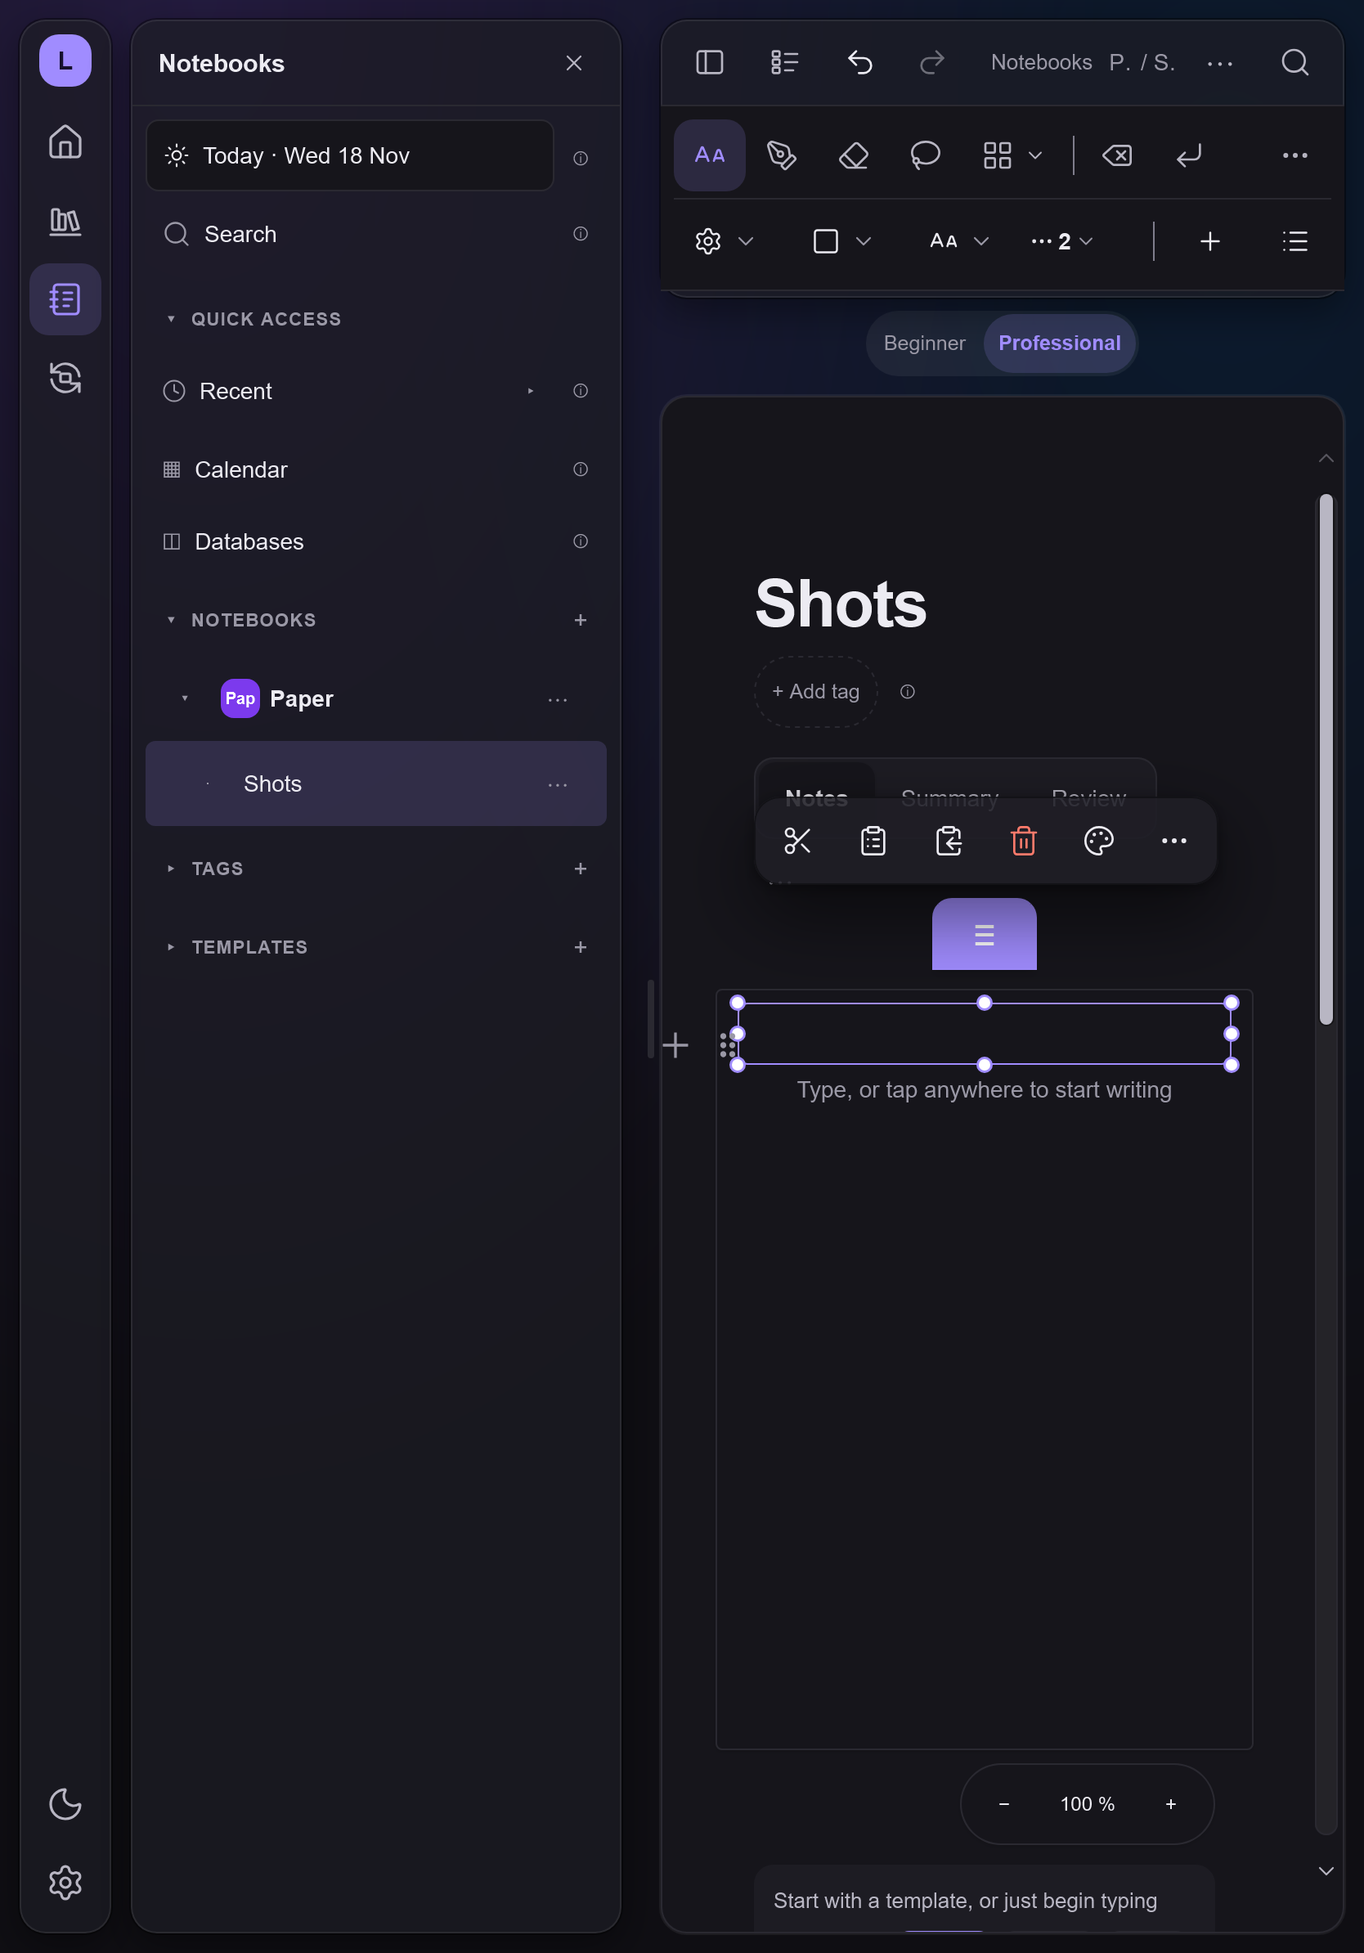
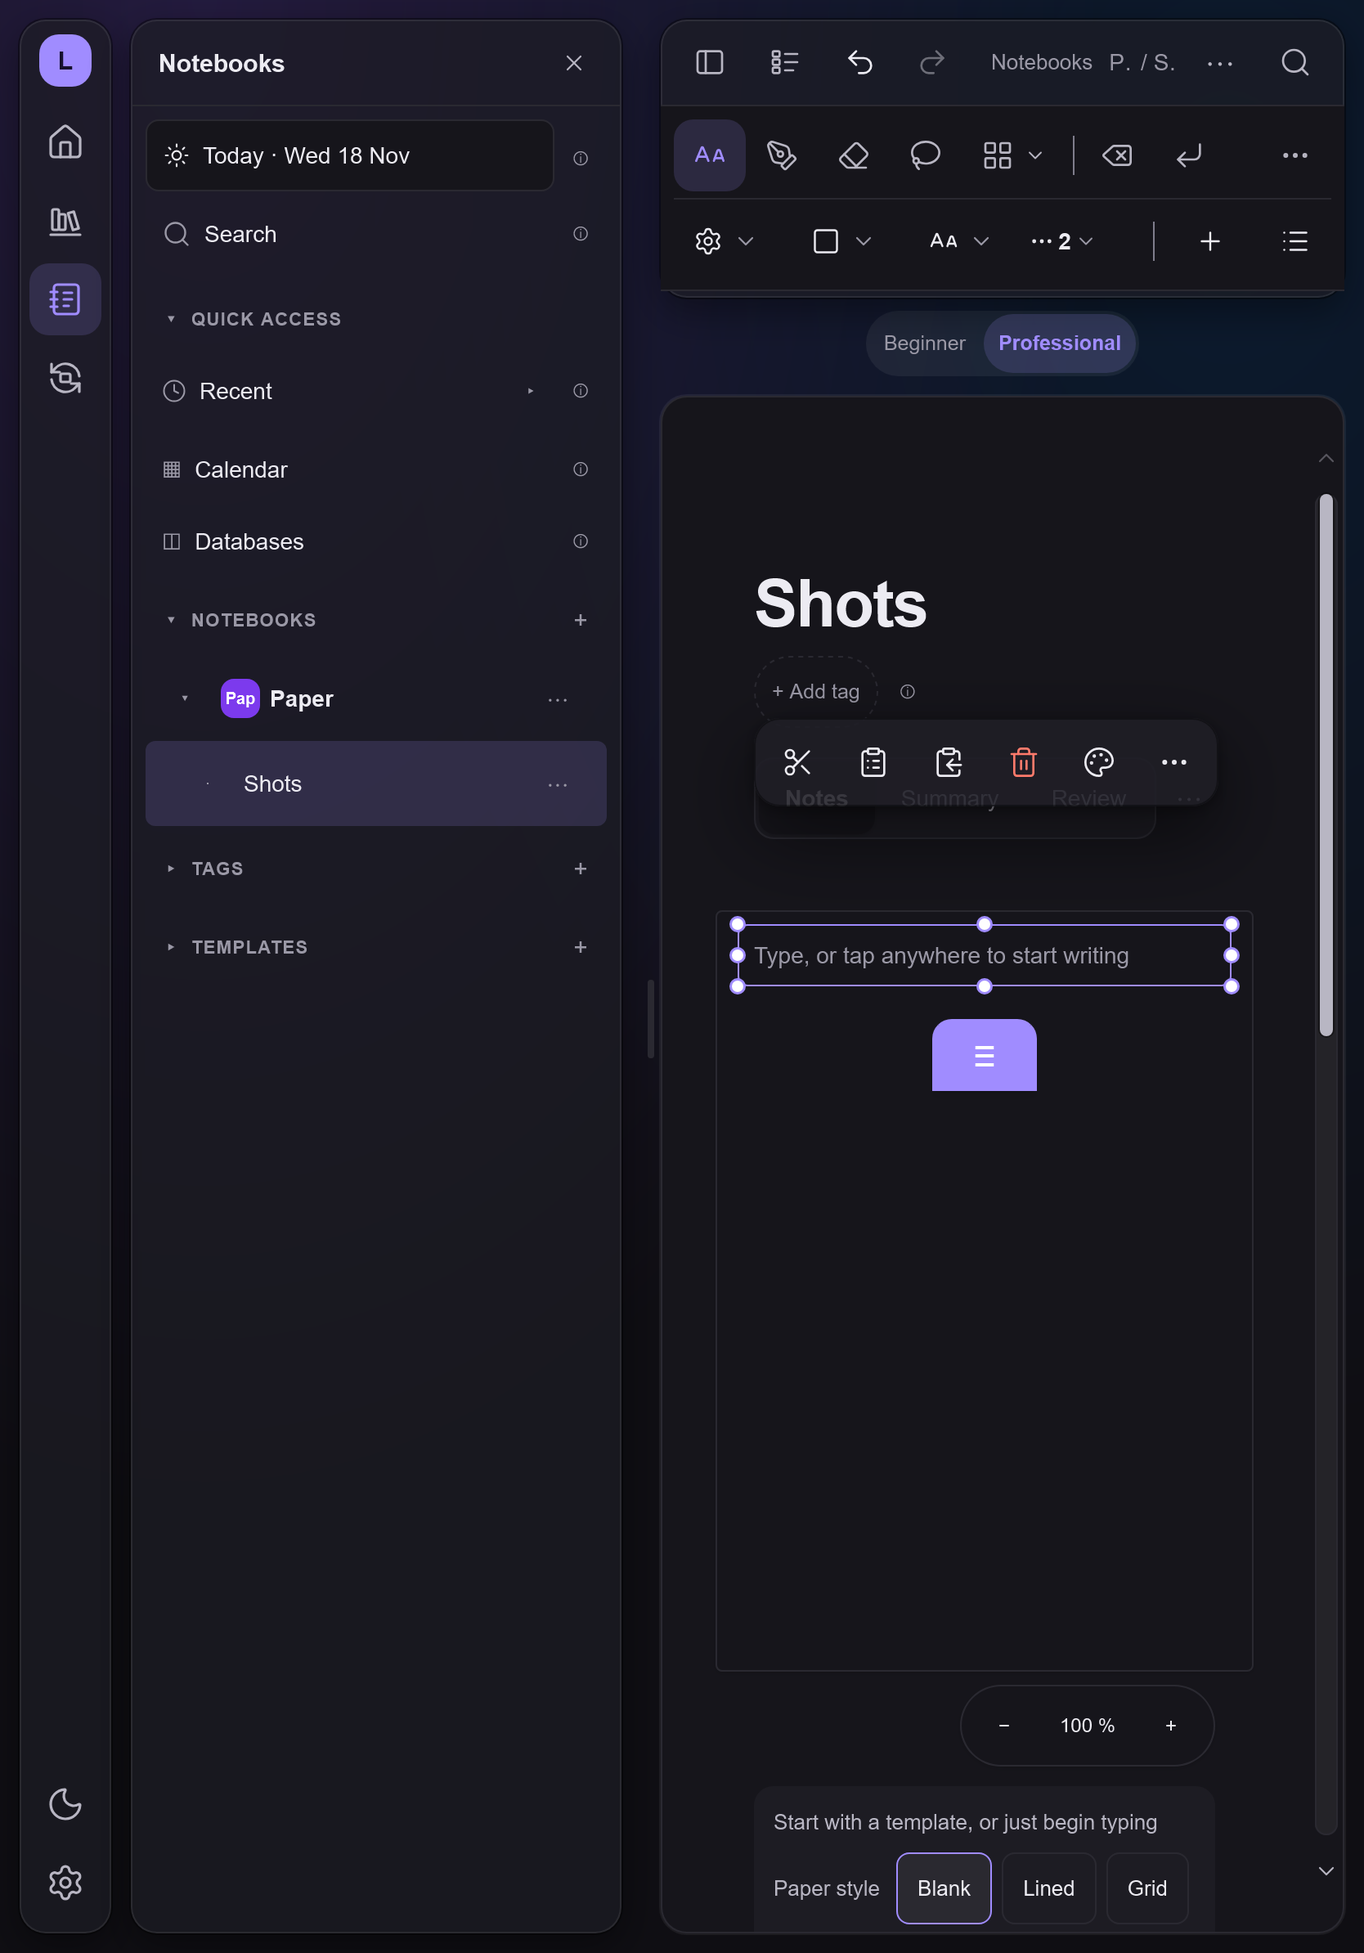
C33, C34 review: hint inside the first box and counted as text, tabs menu beside tabs, block handle hidden on a selected box, empty box vanishes at once, Text-tool-only tests

diff --git a/e2e/c33c34.spec.ts b/e2e/c33c34.spec.ts
@@ -96,7 +96,7 @@ test('owner 18 Nov: an empty page shows its hint and no frame until the first bo
   await expect(page.locator('[data-paper-hint]')).toBeVisible()
   await expect(page.locator('[data-main-frame]')).toHaveCount(0)
   const r = await rect(page.locator(MAIN))
-  await page.mouse.click(r.x + r.width / 2, r.y + 8)
+  await page.mouse.click(r.x + r.width - 80, r.y + 8)
   await page.waitForTimeout(500)
   await expect(page.locator('[data-main-frame]')).toBeVisible()
 })
@@ -107,7 +107,7 @@ test('owner 18 Nov: typed letters do nothing while the first box is selected; Es
   await start(page, 'KeysMain', false, PRESET_2B)
   const main = page.locator(MAIN)
   const r = await rect(main)
-  await page.mouse.click(r.x + r.width / 2, r.y + 8)
+  await page.mouse.click(r.x + r.width - 80, r.y + 8)
   await expect(chrome(page).locator('[data-box-grip]')).toBeVisible()
   await page.keyboard.type('hello')
   await page.waitForTimeout(400)
@@ -135,3 +135,164 @@ test('owner 18 Nov: typed letters do nothing while another box is selected; Dele
   await page.keyboard.press('Delete')
   await expect(page.locator(EXTRA)).toHaveCount(0)
 })
+
+/* ---- Review round (owner 18 Nov) ---- */
+
+test('review: the empty page hint sits inside the first box, on its line', async ({
+  page,
+}) => {
+  await start(page, 'HintIn', false, PRESET_2B)
+  await page.waitForTimeout(700)
+  const b = await rect(page.locator(MAIN))
+  const h = await rect(page.locator('[data-paper-hint]'))
+  expect(h.y).toBeGreaterThanOrEqual(b.y - 1)
+  expect(h.y + h.height).toBeLessThanOrEqual(b.y + b.height + 1)
+  expect(h.x).toBeGreaterThanOrEqual(b.x - 1)
+  expect(h.x).toBeLessThan(b.x + 20)
+  // Still no frame on an empty page.
+  await expect(page.locator('[data-main-frame]')).toHaveCount(0)
+})
+
+test('owner 18 Nov, hint tap: a tap on or near the hint gives the caret; a tap clearly away selects the box', async ({
+  page,
+}) => {
+  await start(page, 'HintTap', false, PRESET_2B)
+  await page.waitForTimeout(700)
+  const main = page.locator(MAIN)
+  const b = await rect(main)
+  const h = await rect(page.locator('[data-paper-hint]'))
+  const typing = () => main.evaluate((m) => m.contains(document.activeElement))
+  await page.mouse.click(h.x + h.width / 2, h.y + h.height / 2)
+  await page.waitForTimeout(400)
+  expect(await typing()).toBe(true)
+  await page.evaluate(() => (document.activeElement as HTMLElement).blur())
+  await page.keyboard.press('Escape')
+  await page.waitForTimeout(500)
+  // Just past the hint's end (about 1.5 letters): still near.
+  await page.mouse.click(h.x + h.width + 12, h.y + h.height / 2)
+  await page.waitForTimeout(400)
+  expect(await typing()).toBe(true)
+  await page.evaluate(() => (document.activeElement as HTMLElement).blur())
+  await page.keyboard.press('Escape')
+  await page.waitForTimeout(500)
+  // Clearly away: selects, no caret.
+  await page.mouse.click(b.x + b.width - 30, h.y + h.height / 2)
+  await expect(chrome(page).locator('[data-box-grip]')).toBeVisible()
+  expect(await typing()).toBe(false)
+})
+
+test('review: the page tabs keep their ⋯ beside them, not wrapped under', async ({
+  page,
+}) => {
+  await page.setViewportSize({ width: 834, height: 1194 })
+  await start(page, 'TabsRow', false, PRESET_2B)
+  await page.waitForTimeout(700)
+  const tabs = await rect(page.locator('[data-page-tabs]'))
+  const more = await rect(page.locator('[data-page-tabs-menu]'))
+  expect(more.y).toBeLessThan(tabs.y + tabs.height)
+  expect(more.x).toBeGreaterThan(tabs.x + tabs.width - 2)
+})
+
+test('review: a selected first box hides the block handle (⠿ and +)', async ({
+  page,
+}) => {
+  await start(page, 'Handle', false, PRESET_2B)
+  const main = page.locator(MAIN)
+  await page.locator(MAIN + ' .bn-editor').click({ position: { x: 6, y: 8 } })
+  await page.keyboard.type('Hello world')
+  await page.waitForTimeout(500)
+  await page.mouse.move(300, 300)
+  await page.locator(MAIN + ' .bn-inline-content').hover()
+  await page.waitForTimeout(400)
+  await page.evaluate(() => (document.activeElement as HTMLElement).blur())
+  await page.keyboard.press('Escape')
+  const r = await rect(main)
+  await page.mouse.click(r.x + r.width - 80, r.y + 8)
+  await expect(chrome(page).locator('[data-box-grip]')).toBeVisible()
+  await page.locator(MAIN + ' .bn-inline-content').hover()
+  await page.waitForTimeout(400)
+  const visible = await page.evaluate(
+    () =>
+      [...document.querySelectorAll('.bn-side-menu')].filter(
+        (e) => getComputedStyle(e).display !== 'none',
+      ).length,
+  )
+  expect(visible).toBe(0)
+})
+
+/** Add an empty box under the first one (Text tool) and return it. */
+async function emptyBox(page: Page) {
+  const sheet = await rect(page.locator('[data-paper-sheet="1"]'))
+  const main = await rect(page.locator(MAIN))
+  await page.mouse.click(sheet.x + sheet.width * 0.3, main.y + main.height + 60)
+  const box = page.locator(EXTRA)
+  await expect(box).toHaveCount(1)
+  await expect(box.locator('.bn-editor')).toBeFocused()
+  return box
+}
+
+test('owner 18 Nov: an empty box is gone on the very next frame when the caret leaves it', async ({
+  page,
+}) => {
+  await start(page, 'VanishTap', true)
+  await emptyBox(page)
+  const gone = await page.evaluate(async () => {
+    const box = document.querySelector(
+      '[data-paper-box]:not([data-paper-box="main"])',
+    ) as HTMLElement
+    ;(document.activeElement as HTMLElement).blur()
+    await new Promise((r) => requestAnimationFrame(() => r(null)))
+    return !box.isConnected || getComputedStyle(box).display === 'none'
+  })
+  expect(gone).toBe(true)
+  await expect(page.locator(EXTRA)).toHaveCount(0)
+})
+
+test('owner 18 Nov: an empty box is gone on the very next frame when another tool is picked', async ({
+  page,
+}) => {
+  await start(page, 'VanishTool', true)
+  await emptyBox(page)
+  const gone = await page.evaluate(async () => {
+    const box = document.querySelector(
+      '[data-paper-box]:not([data-paper-box="main"])',
+    ) as HTMLElement
+    ;(
+      document.querySelector('[data-bar-tool="pen"]') as HTMLElement | null
+    )?.click()
+    await new Promise((r) => requestAnimationFrame(() => r(null)))
+    return !box.isConnected || getComputedStyle(box).display === 'none'
+  })
+  expect(gone).toBe(true)
+})
+
+test('owner 18 Nov: a box with a word in it stays when the caret leaves it', async ({
+  page,
+}) => {
+  await start(page, 'VanishKeep', true)
+  const box = await emptyBox(page)
+  await page.keyboard.type('Stay')
+  await page.waitForTimeout(500)
+  await page.evaluate(() => (document.activeElement as HTMLElement).blur())
+  await page.waitForTimeout(1500)
+  await expect(page.locator(EXTRA)).toHaveCount(1)
+  await expect(box).toContainText('Stay')
+})
+
+for (const name of ['pen', 'highlighter', 'eraser', 'lasso'])
+  test(`owner 18 Nov: with the ${name} tool a tap below the last box makes no box`, async ({
+    page,
+  }) => {
+    await start(page, 'Only text ' + name, true)
+    const tool = page.locator(`[data-bar-tool="${name}"]`).first()
+    await tool.click()
+    await page.waitForTimeout(400)
+    const sheet = await rect(page.locator('[data-paper-sheet="1"]'))
+    const main = await rect(page.locator(MAIN))
+    await page.mouse.click(
+      sheet.x + sheet.width * 0.3,
+      main.y + main.height + 80,
+    )
+    await page.waitForTimeout(700)
+    await expect(page.locator(EXTRA)).toHaveCount(0)
+  })

diff --git a/src/paper/usePaperBoxes.tsx b/src/paper/usePaperBoxes.tsx
@@ -179,10 +179,55 @@ export function usePaperBoxes(
         }
         runTask(removeIfEmptyBox(db, pageId, id).then(() => {}))
       }
+      // Owner 18 Nov (textbox.v2): an empty box goes at once when the user taps
+      // away (the caret goes nowhere in particular): no wait, no flash.
+      const to = e.relatedTarget as Element | null
+      if (
+        isOn('textbox.v2') &&
+        !to?.closest?.('button, input, select, textarea, [role="menu"]')
+      )
+        return void vanishNow(id)
       window.setTimeout(check, 600)
     }
+    /**
+     * Owner 18 Nov: the box is hidden on the spot (the next frame), the store
+     * removes it right after; if it turns out to hold something (ink the page
+     * does not show yet) it comes back.
+     */
+    const vanishNow = (id: string, keepPicked = true) => {
+      const live = document.querySelector<HTMLElement>(
+        '[data-paper-box="' + CSS.escape(id) + '"]',
+      )
+      if (!live || (keepPicked && live.hasAttribute('data-picked'))) return
+      const ed = live.querySelector('.bn-editor')
+      if (
+        (ed?.textContent ?? '').trim() !== '' ||
+        live.querySelector(
+          '.bn-block-content:not([data-content-type="paragraph"])',
+        )
+      )
+        return
+      live.style.display = 'none'
+      runTask(
+        removeIfEmptyBox(db, pageId, id).then((gone) => {
+          if (!gone && live.isConnected) live.style.display = ''
+        }),
+      )
+    }
+    // Picking another tool also ends an empty box at once.
+    const offTool = isOn('textbox.v2')
+      ? activeTool.subscribe(() => {
+          for (const b of document.querySelectorAll(BOX)) {
+            const id = b.getAttribute('data-paper-box')
+            if (id) vanishNow(id)
+          }
+        })
+      : undefined
     document.addEventListener('focusout', out, true)
-    return () => document.removeEventListener('focusout', out, true)
+    return () => {
+      offTool?.()
+      document.removeEventListener('focusout', out, true)
+    }
   }, [db, pageId, editable])
 
   // Cut and Delete of a page-wide selection (Ctrl+A, third step): every box

diff --git a/src/paper/PaperFrame.tsx b/src/paper/PaperFrame.tsx
@@ -2552,8 +2552,23 @@ export function PaperFrame({
                 >
                   <p
                     data-paper-hint
-                    className="absolute inset-x-0 mx-auto w-max max-w-[80%] text-center text-sm text-muted"
-                    style={{ top: box.y * k + step * 5 }}
+                    className={
+                      isOn('textbox.v2')
+                        ? 'absolute text-sm text-muted'
+                        : 'absolute inset-x-0 mx-auto w-max max-w-[80%] text-center text-sm text-muted'
+                    }
+                    // C33 review (18 Nov): the hint sits inside the first box, on
+                    // its own line, where the caret goes (not below the frame).
+                    style={
+                      isOn('textbox.v2')
+                        ? {
+                            left: mainShown.x * k,
+                            top: mainShown.y * k + 3,
+                            maxWidth: mainShown.w * k,
+                            lineHeight: '24px',
+                          }
+                        : { top: box.y * k + step * 5 }
+                    }
                   >
                     {t(
                       isOn('textbox.v2') ? 'textTool.hintV2' : 'textTool.hint',
@@ -2597,6 +2612,11 @@ export function PaperFrame({
             // Owner Q-3: a deleted first box with no box after it: the page shows
             // no first box (its one empty line stays only as the page's anchor).
             data-main-gone={box.gone && !flat ? '' : undefined}
+            // C33 review: a selected first box hides the block handle (⠿ and +),
+            // which lay over its left dot.
+            data-main-picked={
+              mainPicked && !mainFocus && isOn('textbox.v2') ? '' : undefined
+            }
             inert={box.gone && !flat ? true : undefined}
             className={
               flat

diff --git a/src/app/summary/PageTabs.tsx b/src/app/summary/PageTabs.tsx
@@ -45,12 +45,13 @@ export function Segments<T extends PageTab = PageTab>({
     ...extras.map((id) => ({ id, label: EXTRA_TAB_LABEL[id] })),
   ]
   return (
-    <div className={`flex flex-wrap items-center gap-1 ${className}`}>
+    // Why: a wrapping row let the ⋯ drop under the tabs, near the first box (C33 review). The tabs scroll sideways instead; the ⋯ stays beside them.
+    <div className={`flex flex-nowrap items-center gap-1 ${className}`}>
       <div
         role="group"
         aria-label={t('summary.seg.label')}
         data-page-tabs
-        className="inline-flex max-w-full flex-nowrap overflow-x-auto rounded-xl border border-line bg-soft p-0.5 [scrollbar-width:none]"
+        className="inline-flex min-w-0 max-w-full flex-nowrap overflow-x-auto rounded-xl border border-line bg-soft p-0.5 [scrollbar-width:none]"
       >
         {shown.map(({ id, label }) => (
           <button
@@ -72,7 +73,7 @@ export function Segments<T extends PageTab = PageTab>({
           aria-haspopup="menu"
           data-page-tabs-menu
           onClick={(e) => setMenu(e.currentTarget.getBoundingClientRect())}
-          className="min-h-9 min-w-9 any-pointer-coarse:min-h-11 any-pointer-coarse:min-w-11 rounded-lg text-lg text-ink-soft hover:bg-hover hover:text-ink"
+          className="min-h-9 min-w-9 shrink-0 any-pointer-coarse:min-h-11 any-pointer-coarse:min-w-11 rounded-lg text-lg text-ink-soft hover:bg-hover hover:text-ink"
         >
           ⋯
         </button>

diff --git a/e2e/c33c34Shots.spec.ts b/e2e/c33c34Shots.spec.ts
@@ -37,7 +37,7 @@ for (const [tname, theme] of [
     await page.screenshot({ path: `${out}/1-empty-${tname}.png` })
     const r = await rect(page.locator(MAIN))
     // Away from the caret spot: selected, no caret (C34).
-    await page.mouse.click(r.x + r.width / 2, r.y + 12)
+    await page.mouse.click(r.x + r.width / 2, r.y + 1)
     await expect(
       page.locator('[data-main-chrome] [data-box-grip]'),
     ).toBeVisible()
@@ -53,3 +53,15 @@ for (const [tname, theme] of [
     await page.waitForTimeout(700)
     await page.screenshot({ path: `${out}/2-three-lines-${tname}.png` })
   })
+
+// Pencil mode (the Lasso is the first tool): the empty page keeps its one-line box and no frame.
+test('C33/C34 pictures: Pencil mode, empty page', async ({ page }, info) => {
+  const out = `screenshots/c33-c34/${info.project.name}`
+  mkdirSync(out, { recursive: true })
+  await startInMode(page, 'pencil')
+  await start(page, 'Shots', false, FLAGS)
+  await page.waitForTimeout(900)
+  await page.screenshot({ path: `${out}/4-pencil-empty-light.png` })
+  const r = await rect(page.locator(MAIN))
+  expect(r.height).toBeLessThan(60)
+})

diff --git a/src/editor/tapSelect.ts b/src/editor/tapSelect.ts
@@ -380,6 +380,24 @@ export function tapLevel(
  */
 export function nearText(dom: HTMLElement, x: number, y: number): boolean {
   const range = dom.ownerDocument.createRange()
+  // Owner 18 Nov: on an empty page the grey hint line counts as text, so a tap
+  // on or near it gives the caret; only a tap clearly away selects the box.
+  const hint = dom.closest('[data-paper-box="main"]')
+    ? dom.ownerDocument.querySelector<HTMLElement>('[data-paper-hint]')
+    : null
+  if (hint && !dom.textContent?.trim()) {
+    const h = hint.getBoundingClientRect()
+    const hs = getComputedStyle(hint)
+    const hf = parseFloat(hs.fontSize) || 14
+    const hl = parseFloat(hs.lineHeight) || hf * 1.5
+    if (
+      h.width > 0 &&
+      Math.abs(y - (h.top + h.bottom) / 2) <= hl / 2 &&
+      x >= h.left - 1.05 * hf &&
+      x <= h.right + 1.05 * hf
+    )
+      return true
+  }
   for (const el of dom.querySelectorAll<HTMLElement>('.bn-inline-content')) {
     const st = getComputedStyle(el)
     const fs = parseFloat(st.fontSize) || 16

diff --git a/src/index.css b/src/index.css
@@ -1381,3 +1381,12 @@ html[data-box-drag] {
   height: 0;
   overflow: hidden;
 }
+
+/* C33 review (18 Nov, textbox.v2): a selected box (dots showing) hides the block
+   handle (⠿ and +): it lay over the box's left middle dot. A tap on the words
+   brings it back with the caret. */
+[data-paper-box][data-picked] .bn-side-menu,
+[data-paper-box][data-main-picked] .bn-side-menu,
+[data-paper][data-box-v2]:has([data-picked], [data-main-picked]) .bn-side-menu {
+  display: none;
+}

diff --git a/e2e/mainFirstTapC30b.spec.ts b/e2e/mainFirstTapC30b.spec.ts
@@ -140,7 +140,7 @@ for (const how of ['pen', 'finger'] as const) {
     await start(page, `MainEmpty ${how}`, false, PRESET_2B)
     const main = page.locator(MAIN)
     const r = await rect(main)
-    await tapAt(page, r.x + r.width / 2, r.y + 12, how)
+    await tapAt(page, r.x + r.width - 80, r.y + 12, how)
     await expect(chrome(page).locator('[data-box-grip]')).toBeVisible()
     expect(await typingIn(main)).toBe(false)
     await page.keyboard.press('Escape')

diff --git a/docs/CHANGELOG.md b/docs/CHANGELOG.md
@@ -8,6 +8,7 @@ Current phase only. Older entries are in [ARCHIVE.md](ARCHIVE.md).
 - C34: a tap in the first box's empty part selects it on an empty page too (src/paper/v2/index.ts; C30b kept the caret, that goes). Rule chosen: an empty line's caret spot is its own left edge to 1.75 letters (about 1.05 em) past it, on its row (src/editor/tapSelect.ts nearText); the rest of the box, the frame and the dots area select. e2e helper typeInEditor and mainFirstTapC30b now click at the left end of the line.
 - Owner 18 Nov: letters typed while a box is selected do nothing (Safari typed into the old text; router keydown in src/paper/v2/index.ts). Cmd/Ctrl shortcuts, Delete, Backspace, Escape and keys on buttons stay. An empty page shows no frame (already so; test added).
 - Tests: e2e/c33c34.spec.ts, e2e/mainFirstTapC30b.spec.ts (C34). Pictures: screenshots/c33-c34/.
+- Review round (same slice): the empty page's grey hint sits inside the first box, on its line (src/paper/PaperFrame.tsx); a tap on or near the hint gives the caret (nearText, src/editor/tapSelect.ts). The page tabs' ⋯ stays beside the tabs (it wrapped under them in a narrow page; src/app/summary/PageTabs.tsx). A selected box hides the block handle ⠿ and + (src/index.css, data-main-picked). An empty box vanishes at once (hidden on the next frame, then removed) when the caret leaves it or another tool is picked (src/paper/usePaperBoxes.tsx). A tap below the last box makes a box only with the Text tool (already so; tests for Pen, Highlighter, Eraser, Lasso added). Tests: e2e/c33c34.spec.ts. Pictures: screenshots/c33-c34/ (also an empty page and Pencil mode).
 
 ### 18 Nov 2026: CI reds of run 44139788125, tests only (slice/ci-reds-18nov, Sonnet)
 
